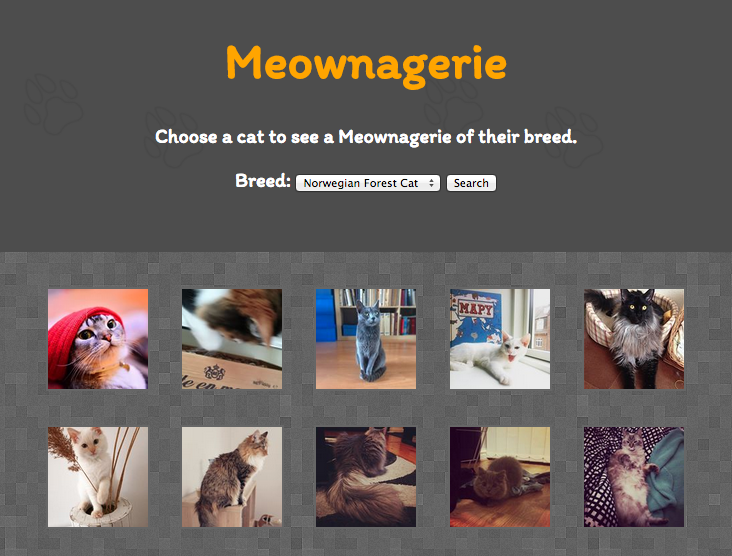
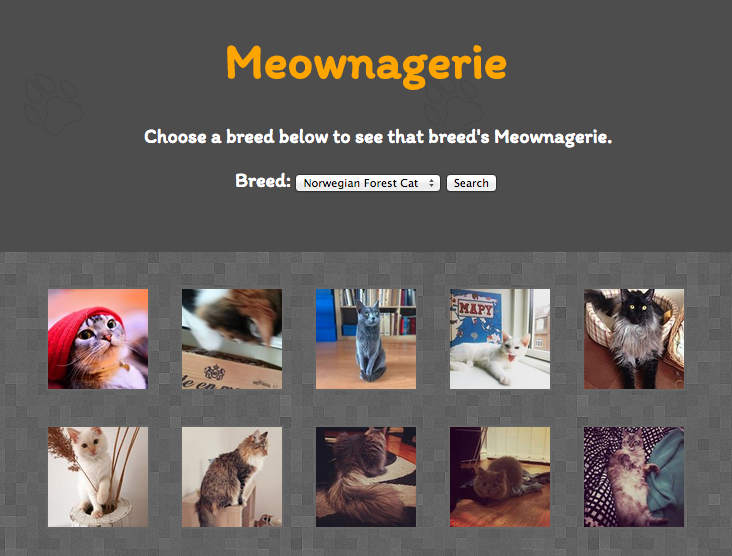
minor changes to text

Changed region(s): [[0.1803, 0.214, 0.8415, 0.2752]]

diff --git a/index.html b/index.html
@@ -12,7 +12,7 @@
 <body>
 	<div id="head">
 		<h1>Meownagerie</h1>
-		<p>Choose a cat to see a Meownagerie of their breed.</p>
+		<p>Choose a breed below to see that breed's Meownagerie.</p>
 		<form id="tagsearch" onsubmit="selectedBreed()">
 		    <p>
 		        <label for="tag">Breed:</label>
